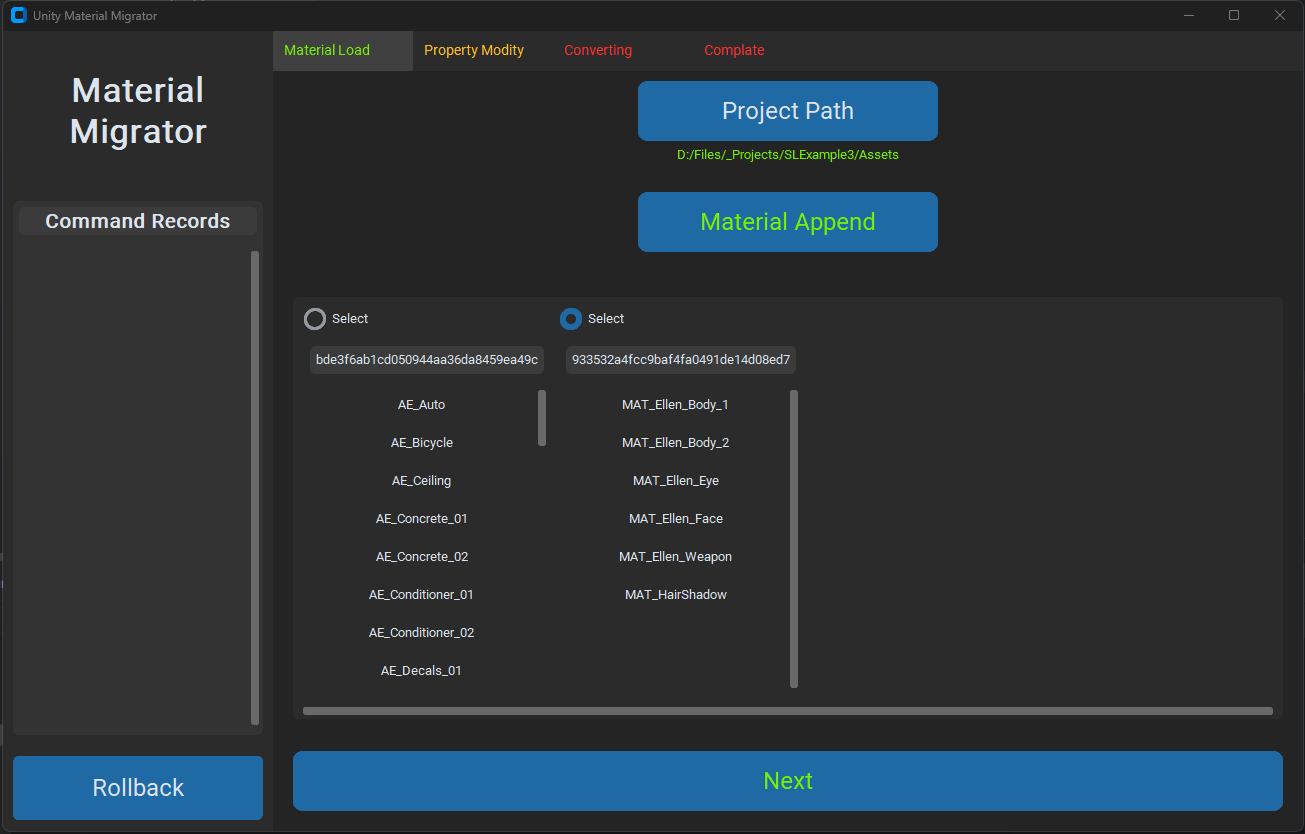
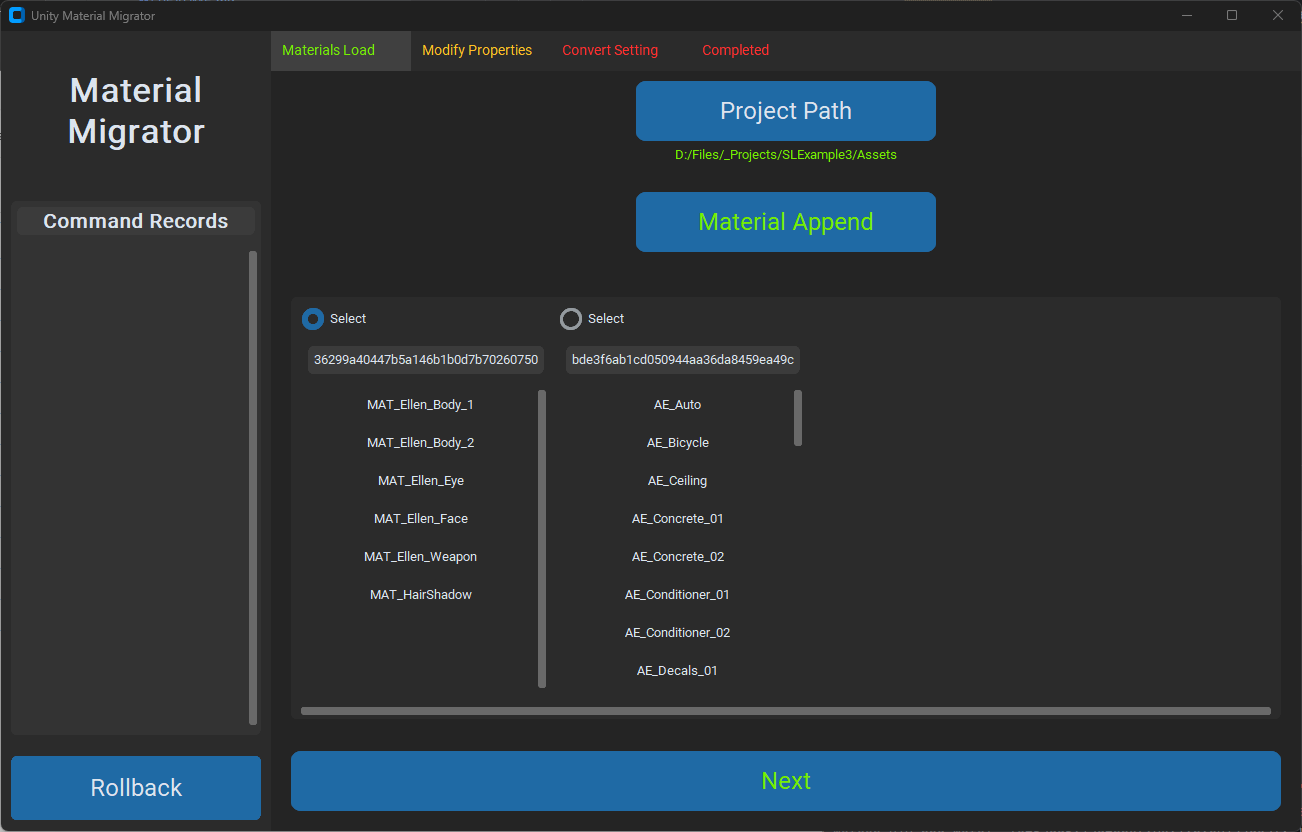
readme update

diff --git a/globalSetting.py b/globalSetting.py
@@ -158,13 +158,13 @@ class App(ct.CTk):
         self.sidebar_Label = ct.CTkLabel(self.sidebar_frame, text="Material\nMigrator", width=260, height=150, font=ct.CTkFont(size=34, weight="bold"))
         self.sidebar_Label.grid(row=0,column=0,padx=(5,5),pady=(5,5), sticky="ew")
 
-        self.sidebar_CommandScroll = ct.CTkScrollableFrame(master=self.sidebar_frame,label_text="Command Records",
+        self.sidebar_CommandScroll = ct.CTkScrollableFrame(master=self.sidebar_frame,label_text="Command History",
                               label_font=ct.CTkFont(size=20, weight="bold"))
         self.sidebar_CommandScroll.grid(row=1, column=0, padx=(10, 10), pady=(10, 10), sticky="nsew")
         self.sidebar_CommandList = []
         self.sidebar_CommandLabel = []
 
-        self.sidebar_Rollback_Button = ct.CTkButton(master=self.sidebar_frame, text="Rollback", height=65, font=ct.CTkFont(size=24),
+        self.sidebar_Rollback_Button = ct.CTkButton(master=self.sidebar_frame, text="Revert", height=65, font=ct.CTkFont(size=24),
                                  command=lambda: self.LastUnDoCommand())
         self.sidebar_Rollback_Button.grid(row=2, column=0, padx=(10, 10), pady=(10, 10), sticky="sew")
 
@@ -185,10 +185,10 @@ class App(ct.CTk):
             nowButton.configure(state=ct.DISABLED)
             self.topbar_buttons.append(nowButton)
 
-        self.topbar_buttons[0].configure(state=ct.NORMAL, text="Material Load")
-        self.topbar_buttons[1].configure(text="Property Modity")
-        self.topbar_buttons[2].configure(text="Converting")
-        self.topbar_buttons[3].configure(text="Complate")
+        self.topbar_buttons[0].configure(state=ct.NORMAL, text="Materials Load")
+        self.topbar_buttons[1].configure(text="Modify Properties")
+        self.topbar_buttons[2].configure(text="Convert Setting")
+        self.topbar_buttons[3].configure(text="Completed")
 
         self.topbar_buttons[0].configure(command = lambda: self.GotoStep(0))
         self.topbar_buttons[1].configure(command = lambda: self.GotoStep(1))
@@ -316,7 +316,7 @@ class App(ct.CTk):
         self.step2_rightOption_Frame.grid_rowconfigure((0), weight=1)
 
         self.step2_CommandCreateSwitch_Var = ct.BooleanVar(value=True)
-        self.step2_CommandCreateSwitch = ct.CTkSwitch(master=self.step2_rightOption_Frame, text="Create Commend", font=ct.CTkFont(size=18), variable=self.step2_CommandCreateSwitch_Var)
+        self.step2_CommandCreateSwitch = ct.CTkSwitch(master=self.step2_rightOption_Frame, text="Create Command", font=ct.CTkFont(size=18), variable=self.step2_CommandCreateSwitch_Var)
         self.step2_CommandCreateSwitch.grid(row=0,column=0,padx=(10,10),pady=(10, 10), sticky="w")#, sticky="nsew"
 
         self.step2_NextStep3_Button = ct.CTkButton(master=self.step2_rightOption_Frame, height=100, font=ct.CTkFont(size=28), text='Next', command=lambda :self.GotoStep(3))

diff --git a/main.py b/main.py
@@ -19,58 +19,11 @@ logging.basicConfig(
     level=logging.DEBUG
 )
 
-async def ScanData(rootPath):
-    guidTable = {}
-    allPathData = os.walk(rootPath)
-
-    if allPathData:
-        for i in allPathData:
-            nowPath = i[0]
-            folderNameList = i[1]
-            fileNameList = i[2]
-            for fileName in fileNameList:
-                extensionName = fileName.split('.')[-1]
-                if(extensionName == 'meta'):
-                    fullPath = f'{nowPath}\\{fileName}'
-                    fullPathNonExt = f'{nowPath}\\{extensionName}'
-
-                    with open(f'{nowPath}\\{fileName}', 'r') as file:
-                        yamlData = yaml.load(file, Loader=yaml.FullLoader)
-                        #파일 추출
-                        if yamlData.get('TextureImporter') != None:
-                            guidTable[yamlData['guid']] = fullPathNonExt
-    if(not guidTable):
-        logging.warning('ScanData 잘못된 경로')
-    logging.debug(guidTable)
-
-
-
-
-#scanData(r'D:\Files\_Projects\2023_2 Version Stu')
-
-async def main():
-    task = ScanData(r'D:\Files\_Projects\2023_2 Version Study\Assets\Models\Avatar_Female_Size01_Aokaku')
-    print(f'작업을 기다리는 중')
-    data = await task
-
-    #Quit()
-
-    while(not GlobalSetting.windowQuit):
-        GlobalSetting.root.update()
-        await asyncio.sleep(0.032)
-    GlobalSetting.root.quit()
-
-
-
-
-if sys.platform == "win32":
-    # Windows에서만 필요한 설정
-    asyncio.set_event_loop_policy(asyncio.WindowsSelectorEventLoopPolicy())
 
 GlobalSetting.root = App()
 
 GlobalSetting.windowQuit = False
 
 GlobalSetting.root.update()
+GlobalSetting.root.mainloop()
 
-asyncio.run(main())

diff --git a/README.md b/README.md
@@ -1,9 +1,65 @@
 # UnityMaterialMigrator
-## Guide
-![guide](./docs/guide_gui_1.gif)
+  
+**This is a tool that relinks incorrect Reference IDs of Materials in Unity.**  
+*유니티에서 Mateiral들의 잘못된 Reference ID를 다시 링크 시켜주는 툴 입니다.*  
+<br>
+
+![guide](./docs/guide_gui_1.gif)  
+
+- [UnityMaterialMigrator](#unitymaterialmigrator)
+  - [Guide](#guide)
+    - [Step 1:](#step-1)
+    - [Step 2:](#step-2)
+    - [Step 3:](#step-3)
+    - [Step 4:](#step-4)
+    - [Step 5:](#step-5)
+
+2023 University (한국공학대학교 3학년 1학기) Script Language - 1차 Project
 * * *
+## Guide  
+### Step 1:
 ![guide](./docs/guide_main_1.png)  
+- Path Setting: Select the root folder containing the Materials to be changed.
+You can select the Assets folder or select the parent folder containing the Assets folder.
+If it's not a Unity Project, creating a parent folder as Assets folder manually will make the Tool recognize it.
+
+- *경로 설정 : 바꿀 Material들이 포함되어있는 root 폴더를 선택해줍니다.*
+*Assets 폴더를 선택하거나, Assets 폴더가 포함되어있는 상위 폴더를 선택해주면 됩니다.*  
+*Unity Project가 아닐 경우 임의로 상위폴더를 Assets 폴더로 만들어주면 Tool이 인식할 수 있습니다.*  
+
+<br>
+
+### Step 2:
 ![guide](./docs/guide_main_2.png)  
+- The newly added Materials are categorized based on the Shader's GUID.
+  When you select the desired Shader group, the button to proceed to the next step will be activated.
+- *추가된 Material들은 Shader의 GUID에 따라 분류됩니다.*
+  *원하는 Shader 그룹을 선택할 경우, 다음 단계로 넘어갈 수 있는 버튼이 활성화 됩니다.*
+
+<br>
+
+### Step 3:
 ![guide](./docs/guide_property_1.png)  
+- In the Modify Properties window, a list of Shader Reference IDs for the Materials is displayed.
+  You can redefine the Reference ID value you want to modify here.
+- *Modify Properties 창에서는 Material들의 Shader Reference ID 목록이 표시됩니다.* 
+  *이곳에서 수정하고 싶은 Reference ID 값을 다시 정의하면 됩니다.*
+<br>
+
+### Step 4:
 ![guide](./docs/guide_select_1.png)  
+- In the Convert Setting window, you can configure conversion settings in more detail.
+  You can select Materials that you do not want to convert, and enabling "Create Command" will record the operation history.
+- *Convert Setting 창에서는 변환 설정을 보다 더 자세하게 할 수 있습니다.*
+  *변환을 하지 않을 Mateiral들을 선택할 수 있고, Create Command 를 활성화 하면 작업 내역이 기록됩니다.*
+<br>
+
+### Step 5:
 ![guide](./docs/guide_complate_1.png)  
+
+- When you press Convert, the conversion will take place, and you'll be returned to the initial screen.
+  If you had previously enabled Create Command, the operation history will be recorded and displayed in the Command History.
+  You can revert changes by pressing the Revert button.
+- *최종적으로 Convert를 누르면 변환되며 처음화면으로 돌아갑니다.*
+  *이전에 Create Command를 활성화 했다면 작업 내역이 기록되고 Command History에 표시됩니다.*
+  *Revert 버튼을 누르면 변경을 되돌릴 수 있습니다.*
